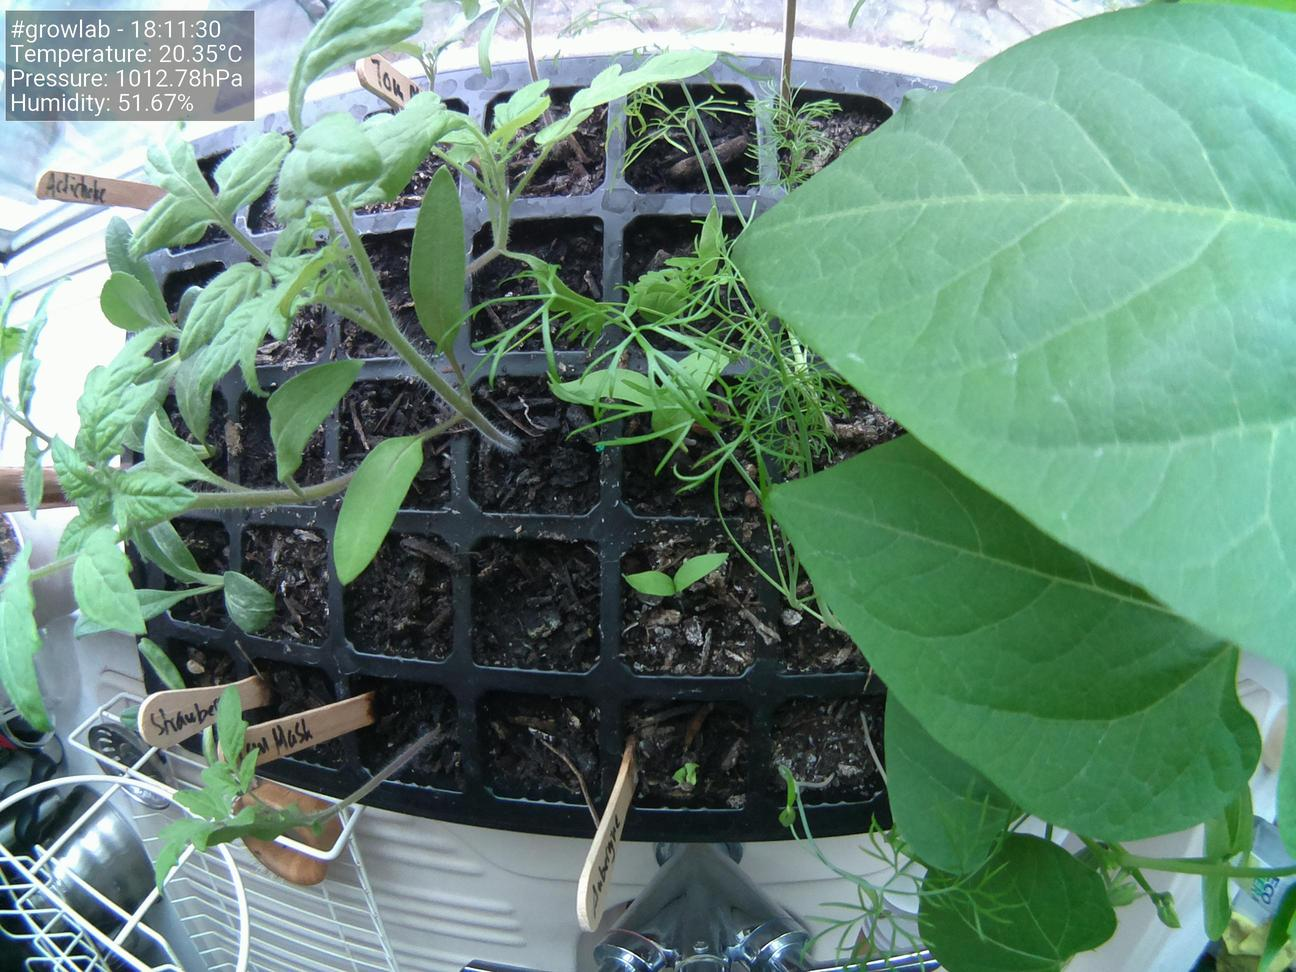
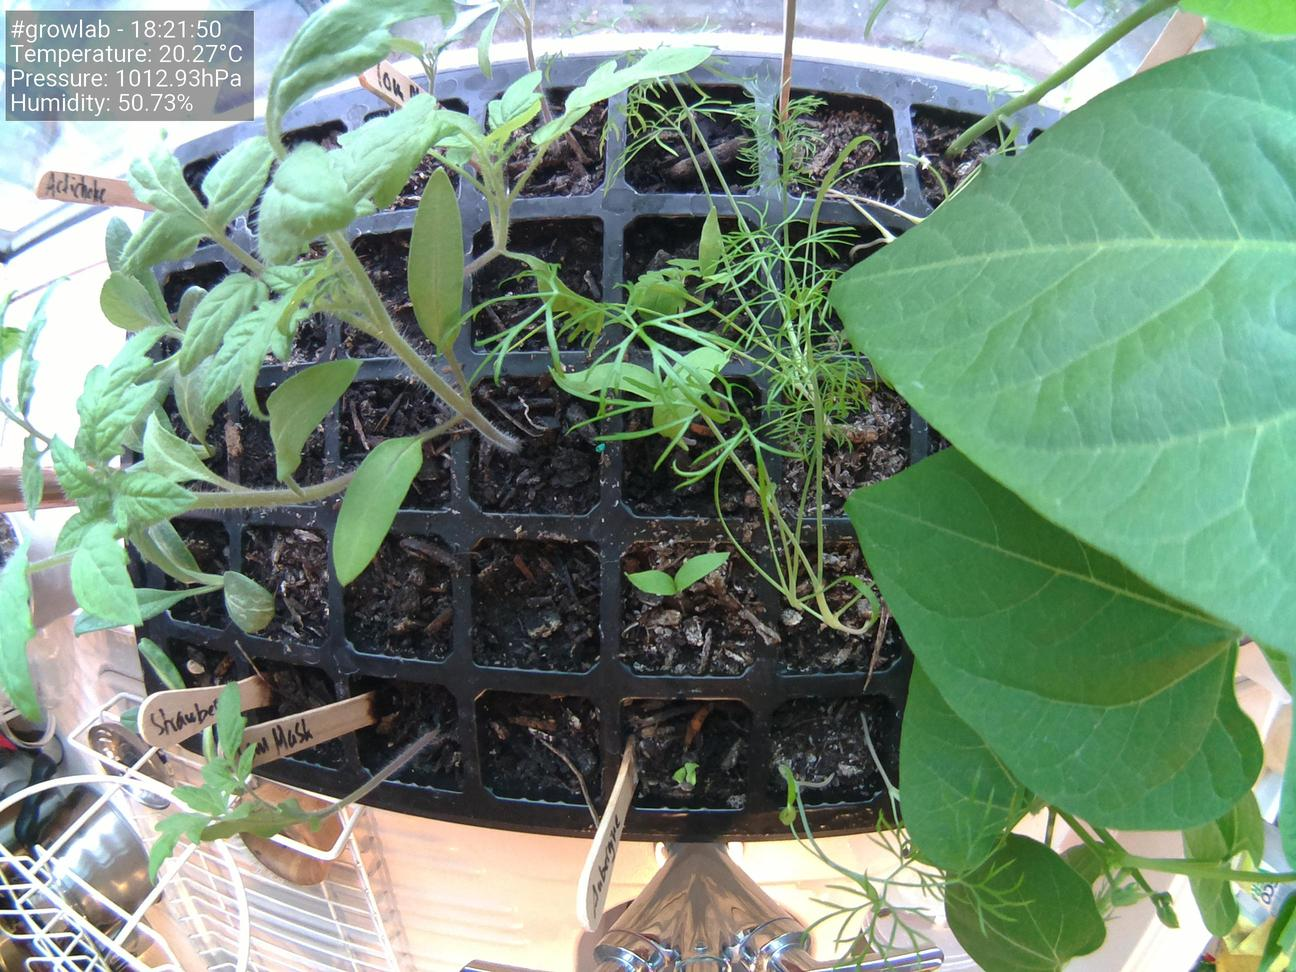
Update images at Thu 29 Apr 18:22:01 BST 2021

diff --git a/docs/index.html b/docs/index.html
@@ -38,19 +38,19 @@
                     <tbody>
                         <tr>
                             <td>Time</td>
-                            <td>18:11:30</td>
+                            <td>18:21:50</td>
                         </tr>
                         <tr>
                             <td>Temperature</td>
-                            <td>20.35°C</td>
+                            <td>20.27°C</td>
                         </tr>
                         <tr>
                             <td>Humidity</td>
-                            <td>51.67%</td>
+                            <td>50.73%</td>
                         </tr>
                         <tr>
                             <td>Pressure</td>
-                            <td>1012.78hPa</td>
+                            <td>1012.93hPa</td>
                         </tr>
                     </tbody>
                 </table>
@@ -58,7 +58,7 @@
 
                 <h5>Latest image</h5>
 		<div style="width: 85%;">
-	                <img class="figure-img img-fluid rounded" src="./preview.jpg?uid=1619716301.4140582">
+	                <img class="figure-img img-fluid rounded" src="./preview.jpg?uid=1619716921.1003356">
 		</div>
             </div>
         </div>
